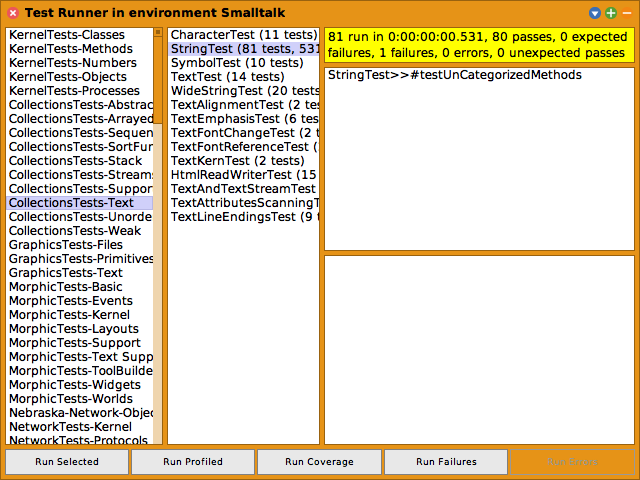
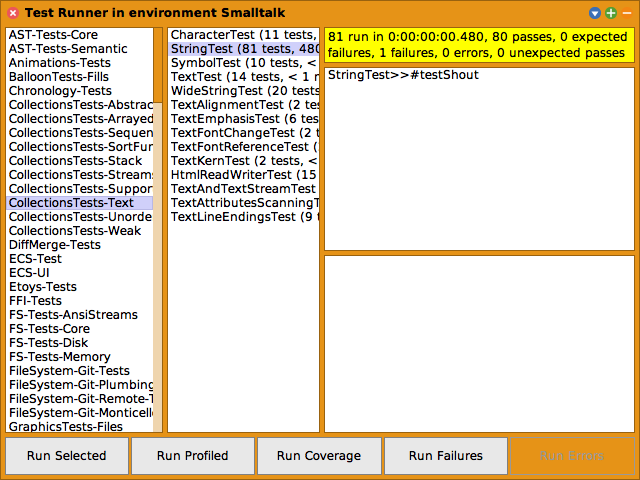
redact saveAs.png, ensure that we do actually fail testShout

diff --git a/QuickTour/QuickTour.tex b/QuickTour/QuickTour.tex
@@ -831,14 +831,18 @@ The leftmost two panes are a bit like the top panes in the system browser.  The 
 
 \dothis{Select \scat{CollectionsTests-Text} and the pane to the right will show all of the test classes in that category, which includes the class \ct{StringTest}.  The names of the classes are already selected, so click \menu{Run Selected} to run all these tests.}
 
-%%{SBESqueakPicture writeTo: './figures/testRunnerOnStringTest.png' frame: #morphs using: [:helper |
-%%  testRunner := (ToolBuilder open: TestRunner new) model.
-%%  categoryIndex := testRunner categoryList indexOf: 'CollectionsTests-Text'.
-%%  testRunner categorySelected: categoryIndex.
-%%  testRunner categoryAt: categoryIndex put: true.
-%%  testRunner selectNoClasses.
-%%  testRunner classAt: (testRunner classList findFirst: [:s | s beginsWith: 'StringTest']) put: true.
-%%  testRunner runAll
+%%{SBESqueakPicture writeTo: './figures/testRunnerOnStringTest.png' frame: #morphs using: [:helper | | testRunner categoryIndex |
+%%  helper restoreMethods: {StringTest >> #testShout} after: [
+%%    Transcript showln: 'exec'.
+%%    StringTest compile: 'testShout self assert: false'.
+%%    testRunner := (ToolBuilder open: TestRunner new) model.
+%%    categoryIndex := testRunner categoryList indexOf: 'CollectionsTests-Text'.
+%%    testRunner categorySelected: categoryIndex.
+%%    testRunner categoryAt: categoryIndex put: true.
+%%    testRunner selectNoClasses.
+%%    testRunner classAt: (testRunner classList findFirst: [:s | s beginsWith: 'StringTest']) put: true.
+%%    testRunner runAll
+%%  ]
 %%]}
 
 \begin{figure}[hbt]
